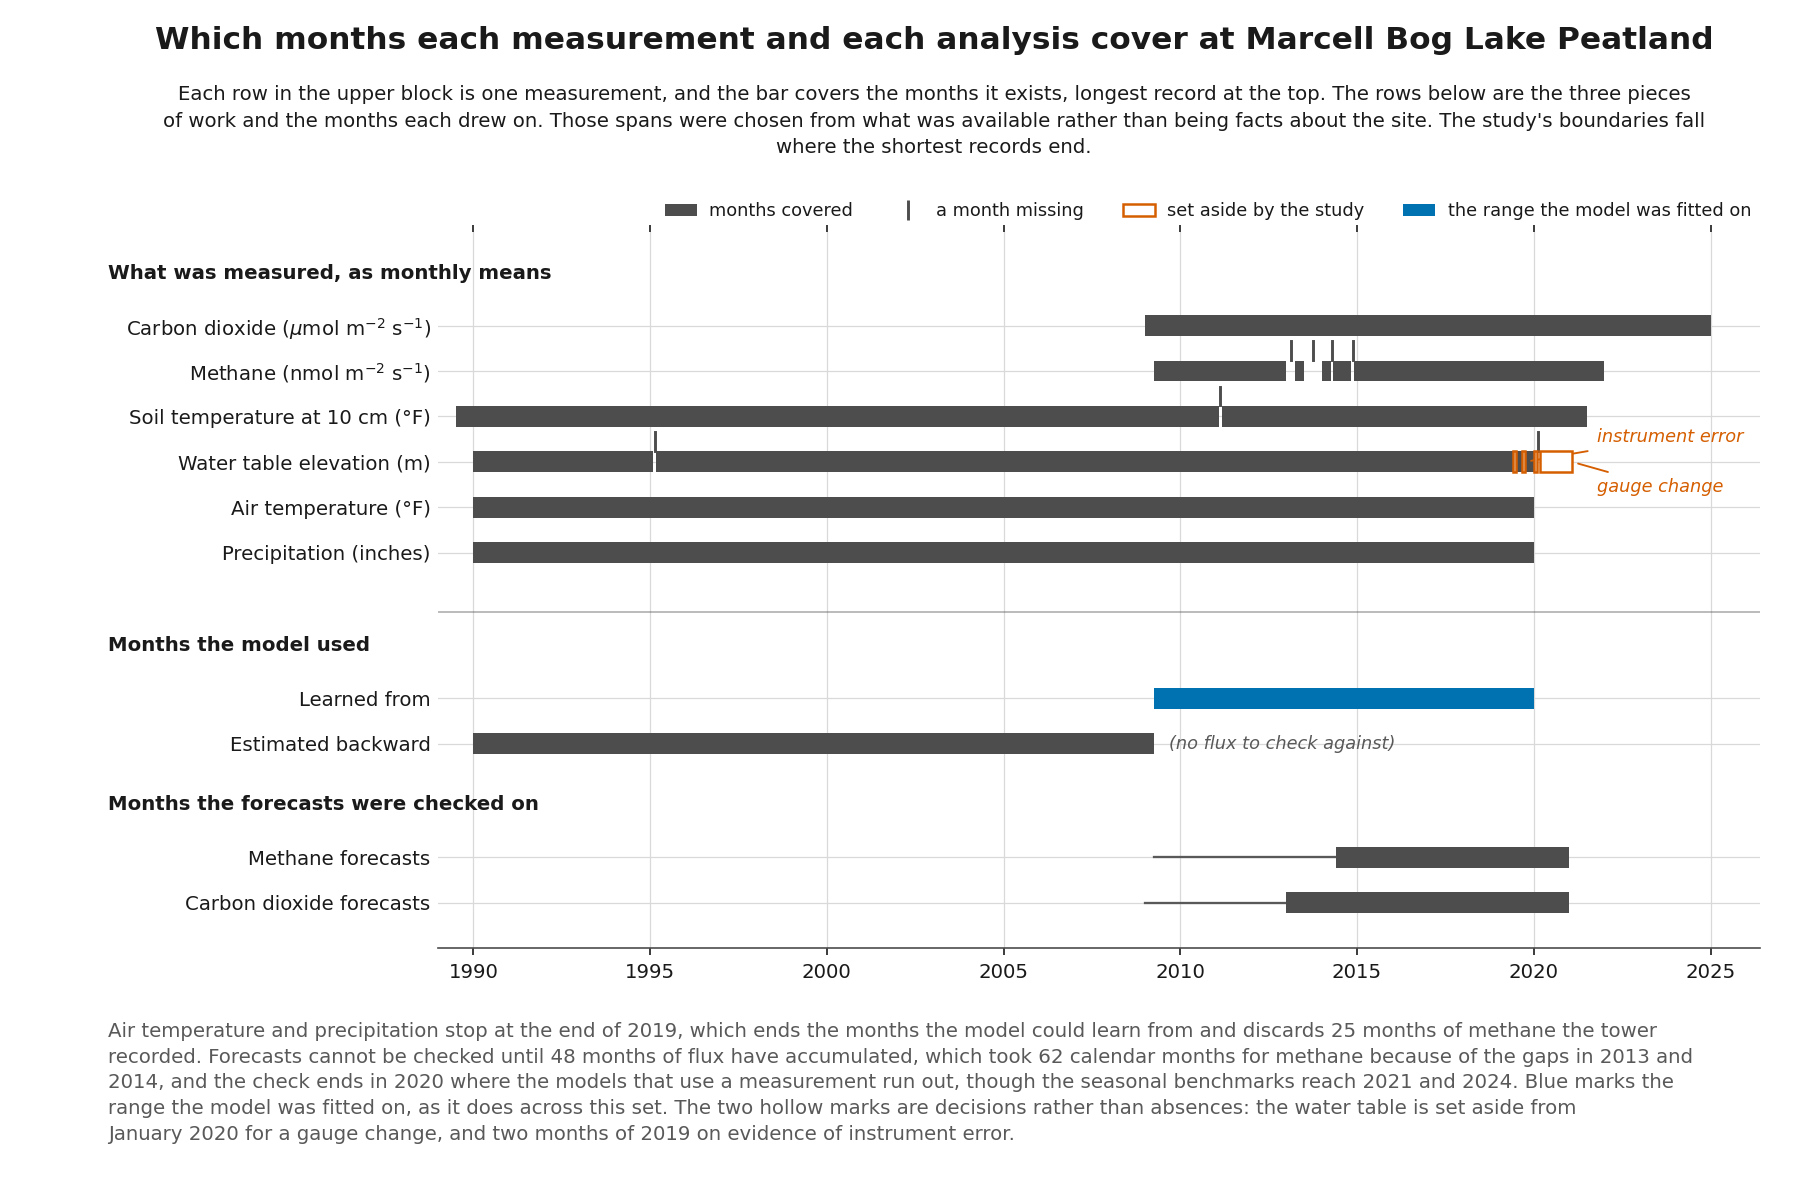
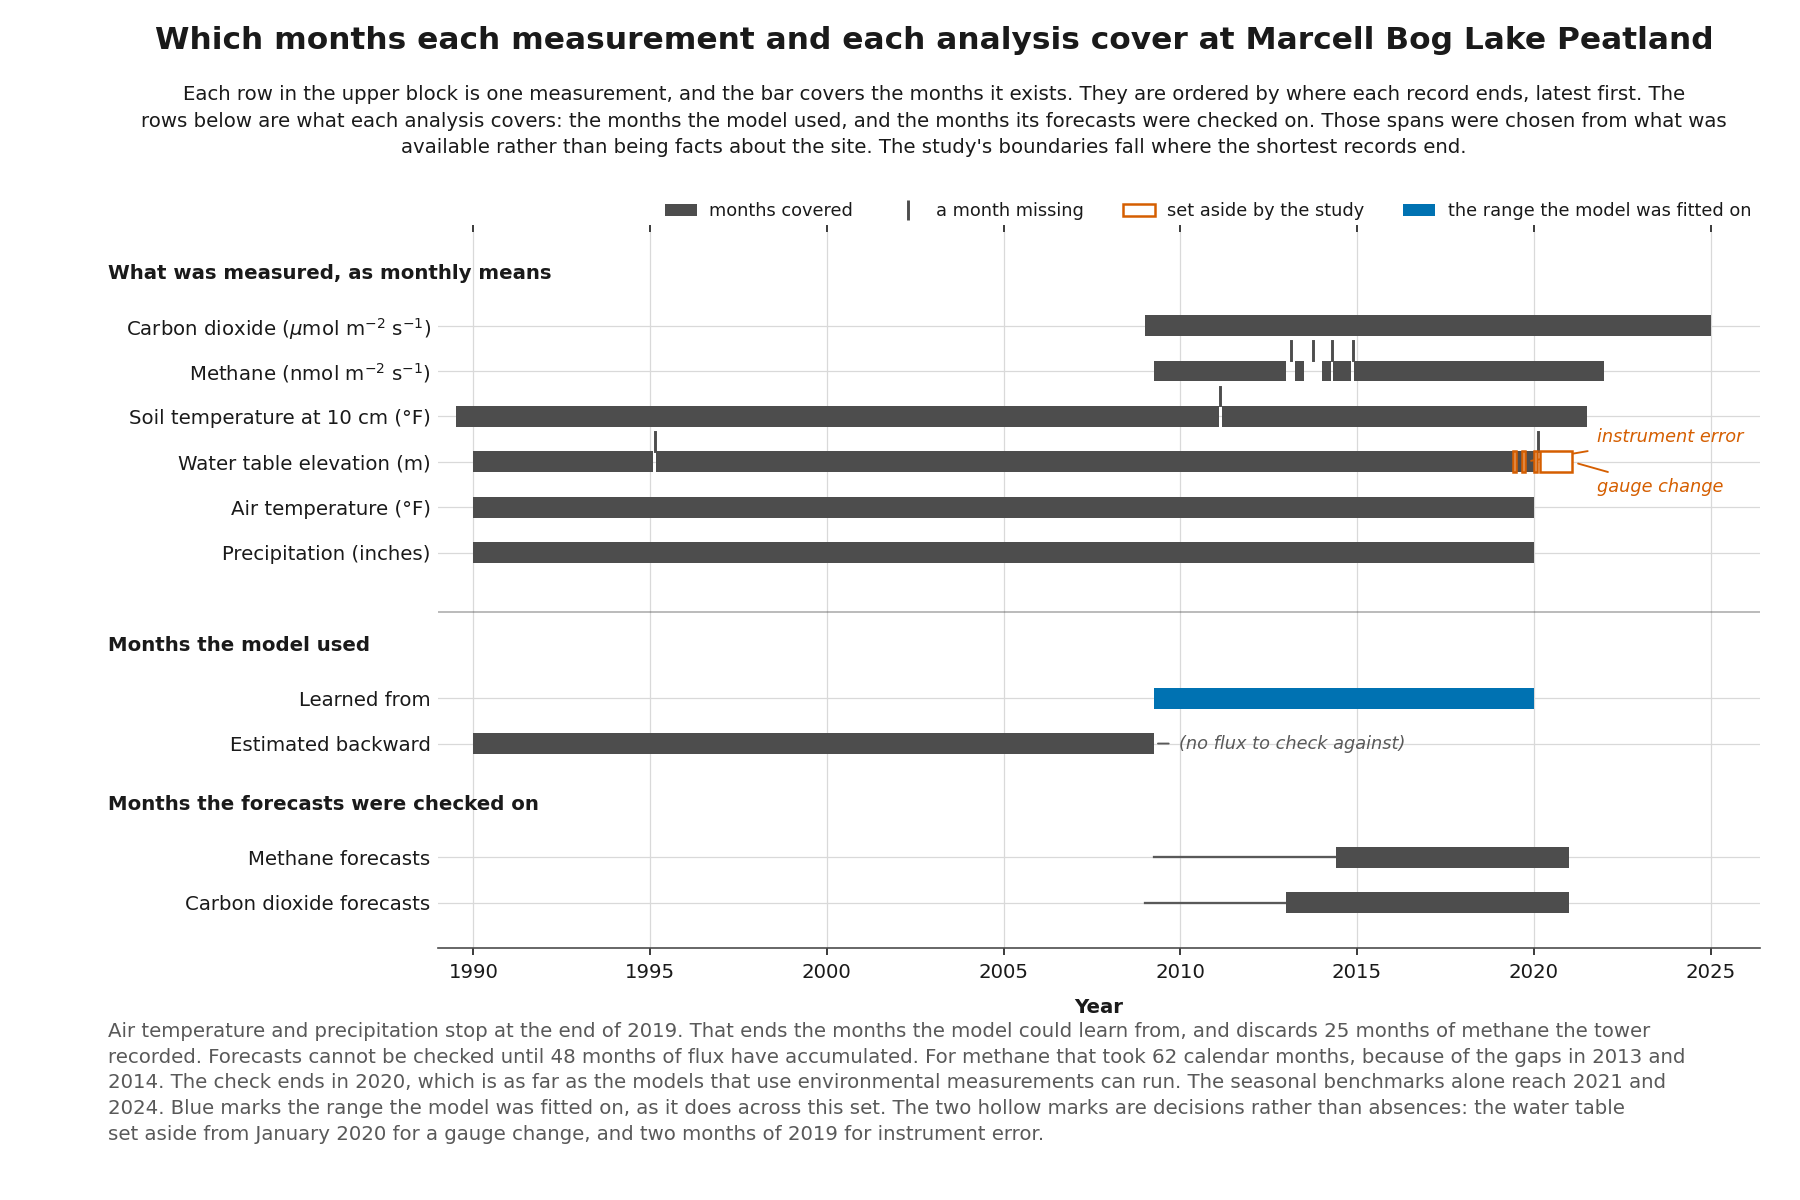
Break the availability text into shorter sentences

Changed region(s): [[0.0622, 0.8325, 0.9333, 0.9558], [0.0933, 0.0617, 0.9644, 0.1233], [0.6533, 0.6167, 0.7778, 0.6475]]

diff --git a/src/study/figures.py b/src/study/figures.py
@@ -1349,27 +1349,29 @@ AVAILABILITY_TEXT = ps.FigureText(
            "Marcell Bog Lake Peatland"),
     subtitle=(
         "Each row in the upper block is one measurement, and the bar covers the "
-        "months it exists, longest record at the top. The rows below are the three "
-        "pieces of work and the months each drew on. Those spans were chosen from "
-        "what was available rather than being facts about the site. The study's "
-        "boundaries fall where the shortest records end."
+        "months it exists. They are ordered by where each record ends, latest "
+        "first. The rows below are what each analysis covers: the months the model "
+        "used, and the months its forecasts were checked on. Those spans were "
+        "chosen from what was available rather than being facts about the site. "
+        "The study's boundaries fall where the shortest records end."
     ),
     description=(
-        "Air temperature and precipitation stop at the end of 2019, which ends the "
-        "months the model could learn from and discards 25 months of methane the "
+        "Air temperature and precipitation stop at the end of 2019. That ends the "
+        "months the model could learn from, and discards 25 months of methane the "
         "tower recorded. Forecasts cannot be checked until 48 months of flux have "
-        "accumulated, which took 62 calendar months for methane because of the "
-        "gaps in 2013 and 2014, and the check ends in 2020 where the models that "
-        "use a measurement run out, though the seasonal benchmarks reach 2021 and "
-        "2024. Blue marks the range the model was fitted on, as it does across "
-        "this set. The two hollow marks are decisions rather than absences: the "
-        "water table is set aside from January 2020 for a gauge change, and two "
-        "months of 2019 on evidence of instrument error."
+        "accumulated. For methane that took 62 calendar months, because of the "
+        "gaps in 2013 and 2014. The check ends in 2020, which is as far as the "
+        "models that use environmental measurements can run. The seasonal "
+        "benchmarks alone reach 2021 and 2024. Blue marks the range the model was "
+        "fitted on, as it does across this set. The two hollow marks are decisions "
+        "rather than absences: the water table set aside from January 2020 for a "
+        "gauge change, and two months of 2019 for instrument error."
     ),
 )
 
 BLOCK_HEADINGS = ("What was measured, as monthly means", "Months the model used",
                   "Months the forecasts were checked on")
+TIME_AXIS = "Year"
 PRESENT_LABEL = "months covered"
 MISSING_LABEL = "a month missing"
 ASIDE_LABEL = "set aside by the study"
@@ -1472,10 +1474,14 @@ def _draw_availability_row(ax, y: float, row: dict) -> None:
 def _draw_window_row(ax, y: float, row: dict) -> None:
     """A window: the months it used, and any lead spent on training first."""
     if row.get("note"):
-        # The qualifier that would not fit the gutter, set in the clear ground
-        # beside the bar it belongs to.
-        ax.text(_position(row["last"]) + 0.5, y, row["note"], ha="left", va="center",
-                fontsize=ps.ANNOTATION_SIZE, style="italic", color=ps.MUTED, zorder=4)
+        # The qualifier that would not fit the gutter, set beside the bar it
+        # belongs to and tied to it, since a note floating in the panel reads as
+        # a remark about the figure rather than about one row.
+        ps.annotate(ax, row["note"], xy=(_position(row["last"]) + 1 / 12.0, y),
+                    xytext=(_position(row["last"]) + 0.8, y), ha="left", va="center",
+                    color=ps.MUTED,
+                    arrowprops=dict(arrowstyle="-", color=ps.MUTED, linewidth=0.9,
+                                    shrinkA=3, shrinkB=2))
     if row.get("lead"):
         first, last = row["lead"]
         ax.plot([_position(first), _position(last)], [y, y], color=ps.MUTED,
@@ -1548,6 +1554,9 @@ def covariate_availability(rows: list[dict],
                        fontsize=ps.TICK_SIZE)
     ax.set_xticks(list(range(1990, 2026, 5)))
     ax.set_xticklabels([str(year) for year in range(1990, 2026, 5)])
+    # Named, though the direction is plain from the labels. No name on the other
+    # axis: every row carries its own, and a title over them would repeat six.
+    ax.set_xlabel(TIME_AXIS, fontsize=ps.LABEL_SIZE, color=ps.INK, labelpad=8)
     ax.tick_params(axis="y", length=0)
     ax.grid(axis="x", color=ps.GRID, linewidth=0.6, zorder=0)
     ax.set_axisbelow(True)

diff --git a/tests/test_availability_figure.py b/tests/test_availability_figure.py
@@ -155,10 +155,10 @@ def test_the_reason_a_month_was_set_aside_is_written_beside_it():
     fig = figure()
     said = [note.get_text() for note in fig.axes[0].texts]
     assert "instrument error" in said and "gauge change" in said
-    # Each leader stays on its own side of its own mark rather than crossing the bar.
-    leaders = [note for note in fig.axes[0].texts
+    # Each reason is tied to its own mark rather than crossing the bar to reach it.
+    leaders = [note.get_text() for note in fig.axes[0].texts
                if getattr(note, "arrow_patch", None) is not None]
-    assert len(leaders) == 2
+    assert {"instrument error", "gauge change"} <= set(leaders)
     ps.plt.close(fig)
 
 
@@ -242,13 +242,30 @@ def test_the_description_says_what_the_window_cost_and_not_only_its_cause():
 
 def test_the_description_names_the_benchmark_tail_without_drawing_it():
     """A fourth mark for a clause is not worth it."""
-    assert "seasonal benchmarks reach 2021 and 2024" in figures.AVAILABILITY_TEXT.description
+    assert "seasonal benchmarks alone reach 2021 and 2024" in \
+        figures.AVAILABILITY_TEXT.description
 
 
 def test_the_subtitle_says_the_windows_were_chosen():
     said = figures.AVAILABILITY_TEXT.subtitle
     assert "chosen from what was available" in said
     assert "rather than being facts about the site" in said
+
+
+def test_the_subtitle_describes_the_order_the_rows_are_actually_in():
+    """It said longest record at the top while they were sorted by end date, which
+    put soil temperature, the longest at 383 months, third."""
+    said = figures.AVAILABILITY_TEXT.subtitle
+    assert "ordered by where each record ends" in said
+    assert "longest record at the top" not in said
+
+
+def test_neither_block_of_text_runs_more_than_two_clauses_to_a_sentence():
+    """Four clauses across three facts is one sentence doing three jobs."""
+    text = figures.AVAILABILITY_TEXT
+    for block in (text.subtitle, text.description):
+        for sentence in block.split(". "):
+            assert sentence.count(",") <= 2, sentence
 
 
 def test_the_figure_asks_no_reader_to_know_the_method():
@@ -277,12 +294,23 @@ def test_no_term_appears_as_a_row_name_without_being_explained():
         assert term not in said
 
 
-def test_a_qualifier_too_long_for_the_gutter_is_set_beside_its_own_bar():
-    """Row names were measured against the gutter rather than assumed; the one
-    that did not fit sits in the clear ground to the right of its bar."""
+def test_a_qualifier_too_long_for_the_gutter_is_tied_to_its_own_bar():
+    """Row names were measured against the gutter rather than assumed. The one that
+    did not fit sits beside its bar with a leader, since a note floating in the
+    panel reads as a remark about the figure rather than about one row."""
     fig = figure()
-    said = [note.get_text() for note in fig.axes[0].texts]
-    assert "(no flux to check against)" in said
+    notes = [note for note in fig.axes[0].texts
+             if note.get_text() == "(no flux to check against)"]
+    assert len(notes) == 1
+    assert getattr(notes[0], "arrow_patch", None) is not None
+    ps.plt.close(fig)
+
+
+def test_the_time_axis_is_named_and_the_row_axis_is_not():
+    """Every row carries its own name; a title over them would repeat six."""
+    fig = figure()
+    assert fig.axes[0].get_xlabel() == figures.TIME_AXIS
+    assert not fig.axes[0].get_ylabel()
     ps.plt.close(fig)
 
 

diff --git a/figures/README_fragments.md b/figures/README_fragments.md
@@ -58,6 +58,6 @@ The same analysis is drawn twice, once weighting each month by how well it was m
 
 ![Which months each measurement and each analysis cover at Marcell Bog Lake Peatland](figures/covariate_availability.png)
 
-**Each row in the upper block is one measurement, and the bar covers the months it exists, longest record at the top. The rows below are the three pieces of work and the months each drew on. Those spans were chosen from what was available rather than being facts about the site. The study's boundaries fall where the shortest records end.**
+**Each row in the upper block is one measurement, and the bar covers the months it exists. They are ordered by where each record ends, latest first. The rows below are what each analysis covers: the months the model used, and the months its forecasts were checked on. Those spans were chosen from what was available rather than being facts about the site. The study's boundaries fall where the shortest records end.**
 
-Air temperature and precipitation stop at the end of 2019, which ends the months the model could learn from and discards 25 months of methane the tower recorded. Forecasts cannot be checked until 48 months of flux have accumulated, which took 62 calendar months for methane because of the gaps in 2013 and 2014, and the check ends in 2020 where the models that use a measurement run out, though the seasonal benchmarks reach 2021 and 2024. Blue marks the range the model was fitted on, as it does across this set. The two hollow marks are decisions rather than absences: the water table is set aside from January 2020 for a gauge change, and two months of 2019 on evidence of instrument error.
+Air temperature and precipitation stop at the end of 2019. That ends the months the model could learn from, and discards 25 months of methane the tower recorded. Forecasts cannot be checked until 48 months of flux have accumulated. For methane that took 62 calendar months, because of the gaps in 2013 and 2014. The check ends in 2020, which is as far as the models that use environmental measurements can run. The seasonal benchmarks alone reach 2021 and 2024. Blue marks the range the model was fitted on, as it does across this set. The two hollow marks are decisions rather than absences: the water table set aside from January 2020 for a gauge change, and two months of 2019 for instrument error.

diff --git a/notes/study.md b/notes/study.md
@@ -2082,6 +2082,24 @@ the gutter holds 330 px. *Methane forecasts checked against measurements* needs
 part of the first moved into the block heading and the qualifier of the second
 moved to the clear ground beside its own bar.
 
+**The block headings are not boxed.** The bordered box `panel_name` draws is for
+a name sitting inside a panel, where it has data behind it and needs separating
+from it. These headings sit in the left gutter on white with nothing behind them,
+so a border would frame empty ground and would imply they name panels rather than
+groups of rows. Bold text at the gutter's left edge is enough.
+
+**The time axis is named and the row axis is not.** Direction is plain from the
+year labels, but an axis with no name is an axis a reader has to infer. The other
+one carries six names already, and a title over them would repeat all six.
+
+**Both text blocks were broken into shorter sentences.** The subtitle had said
+*longest record at the top* while the rows were sorted by end date, which put soil
+temperature, the longest at 383 months, third; and it still called the lower block
+three pieces of work after it had become four rows in two groups. Both were
+corrected. The description's second sentence had carried four clauses across
+three separate facts and is now three sentences. A test holds every sentence in
+either block to two clauses.
+
 **The water table row says elevation.** Its values run 413.07 to 413.75 m above
 sea level, and a reader who works on peatlands meets "water table" expecting a
 depth below the surface. The row reads *water table elevation (m)*: the unit was
